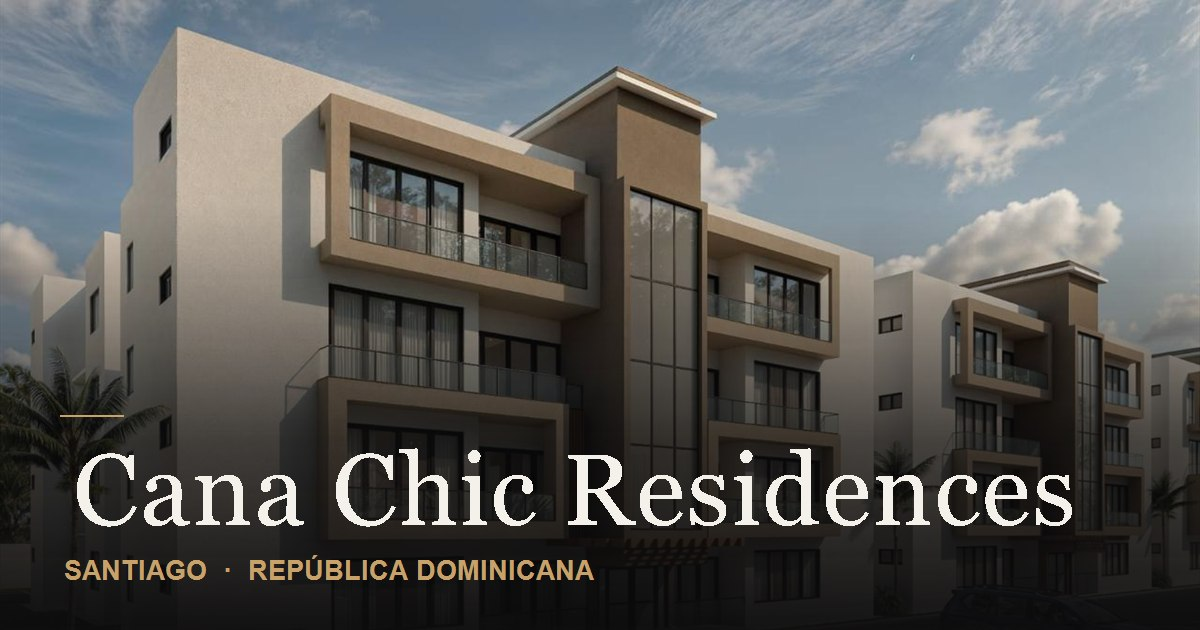
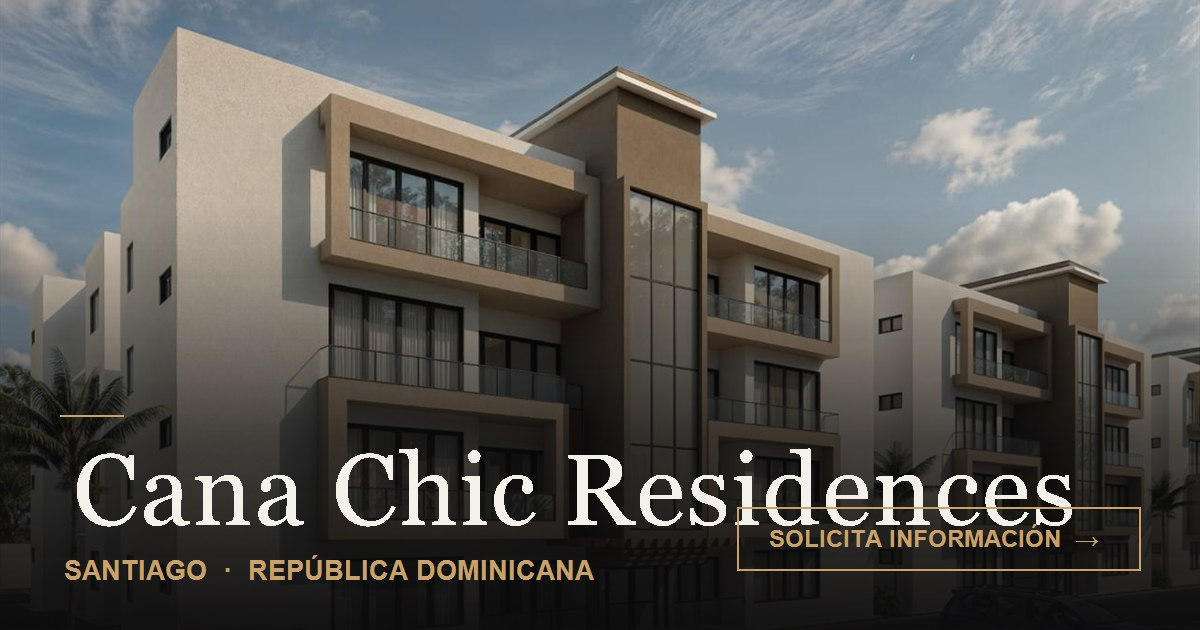
Tighten meta/og descriptions and add CTA to OG image
OpenGraph inspector flagged: meta description (167 -> 148 chars), og:description (131 -> 104 chars), and missing CTA on the OG image. Shortened both copy lines and added a champagne-bordered "Solicita informacion" button to the OG image's bottom-right.

Changed region(s): [[0.6167, 0.7841, 0.9558, 0.8143], [0.6167, 0.8444, 0.8942, 0.8746], [0.925, 0.8746, 0.9558, 0.9048]]

diff --git a/index.html b/index.html
@@ -6,7 +6,7 @@
 <meta http-equiv="Content-Security-Policy" content="default-src 'self'; style-src 'self' https://fonts.googleapis.com 'unsafe-inline'; font-src https://fonts.gstatic.com; img-src 'self' data:; media-src 'self'; script-src 'self' 'unsafe-inline'; connect-src 'self' https://api.web3forms.com; form-action 'self' https://api.web3forms.com; base-uri 'self'" />
 <meta name="referrer" content="strict-origin-when-cross-origin" />
 <title>Cana Chic Residences — Avenida Hispanoamericana, Santiago</title>
-<meta name="description" content="96 residencias de arquitectura contemporánea sobre la Avenida Hispanoamericana, Santiago de los Caballeros. Entrega diciembre 2026. Un desarrollo de Constructora Chic." />
+<meta name="description" content="Vivir en lo alto de Santiago. 96 residencias contemporáneas sobre la Avenida Hispanoamericana. Entrega desde diciembre 2026. Por Constructora Chic." />
 <meta name="author" content="Constructora Chic" />
 <meta name="robots" content="index, follow, max-image-preview:large" />
 <link rel="canonical" href="https://canachicresidences.com/" />
@@ -23,7 +23,7 @@
 <meta property="og:locale" content="es_DO" />
 <meta property="og:url" content="https://canachicresidences.com/" />
 <meta property="og:title" content="Cana Chic Residences — Avenida Hispanoamericana, Santiago" />
-<meta property="og:description" content="96 residencias de arquitectura contemporánea sobre la Avenida Hispanoamericana, Santiago de los Caballeros. Entrega diciembre 2026." />
+<meta property="og:description" content="96 residencias contemporáneas sobre la Avenida Hispanoamericana, Santiago. Entrega desde diciembre 2026." />
 <meta property="og:image" content="https://canachicresidences.com/assets/og-image.jpg" />
 <meta property="og:image:secure_url" content="https://canachicresidences.com/assets/og-image.jpg" />
 <meta property="og:image:type" content="image/jpeg" />